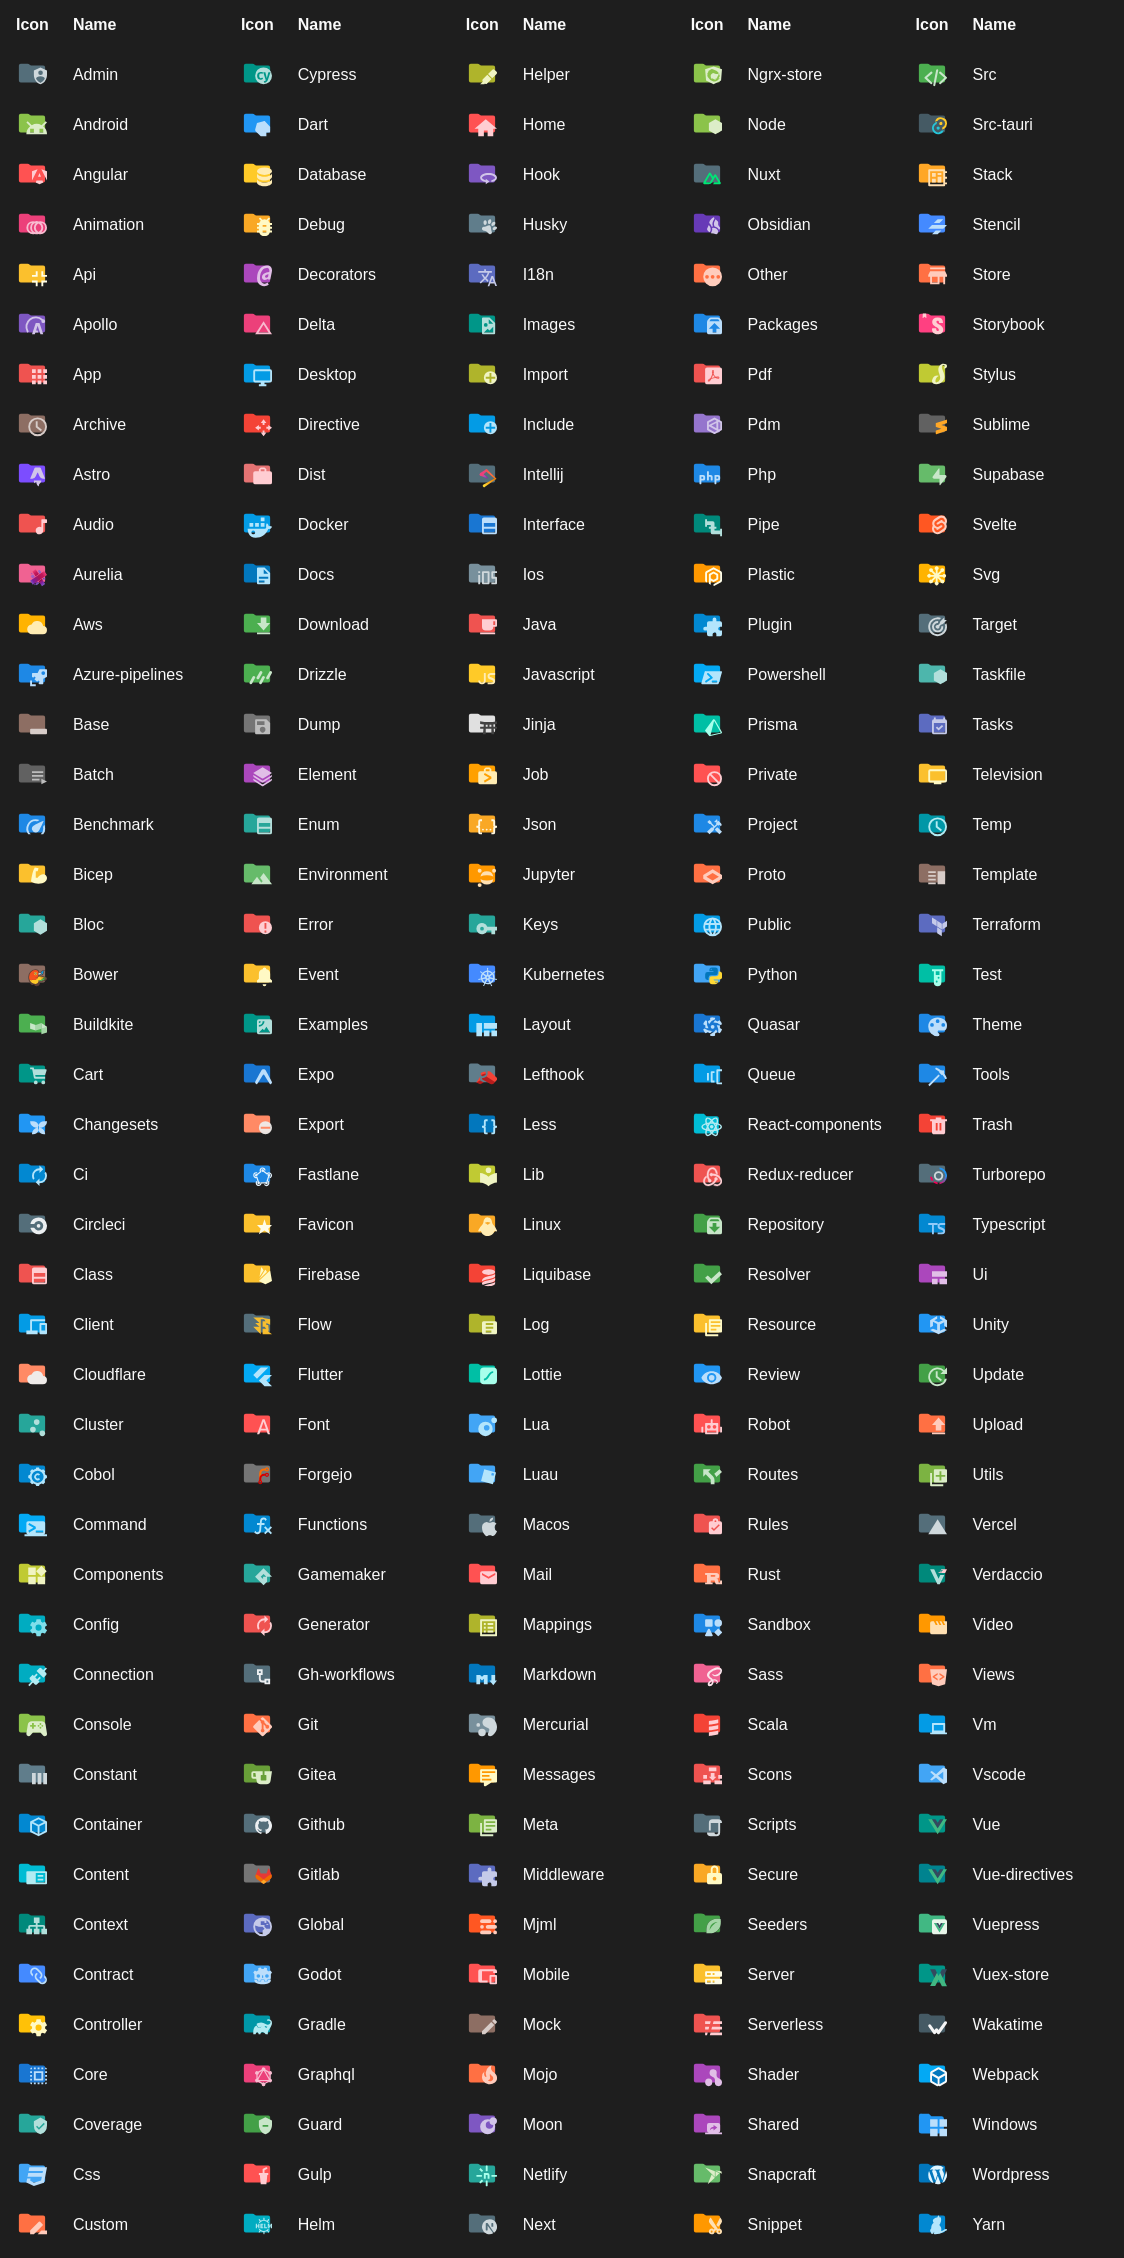
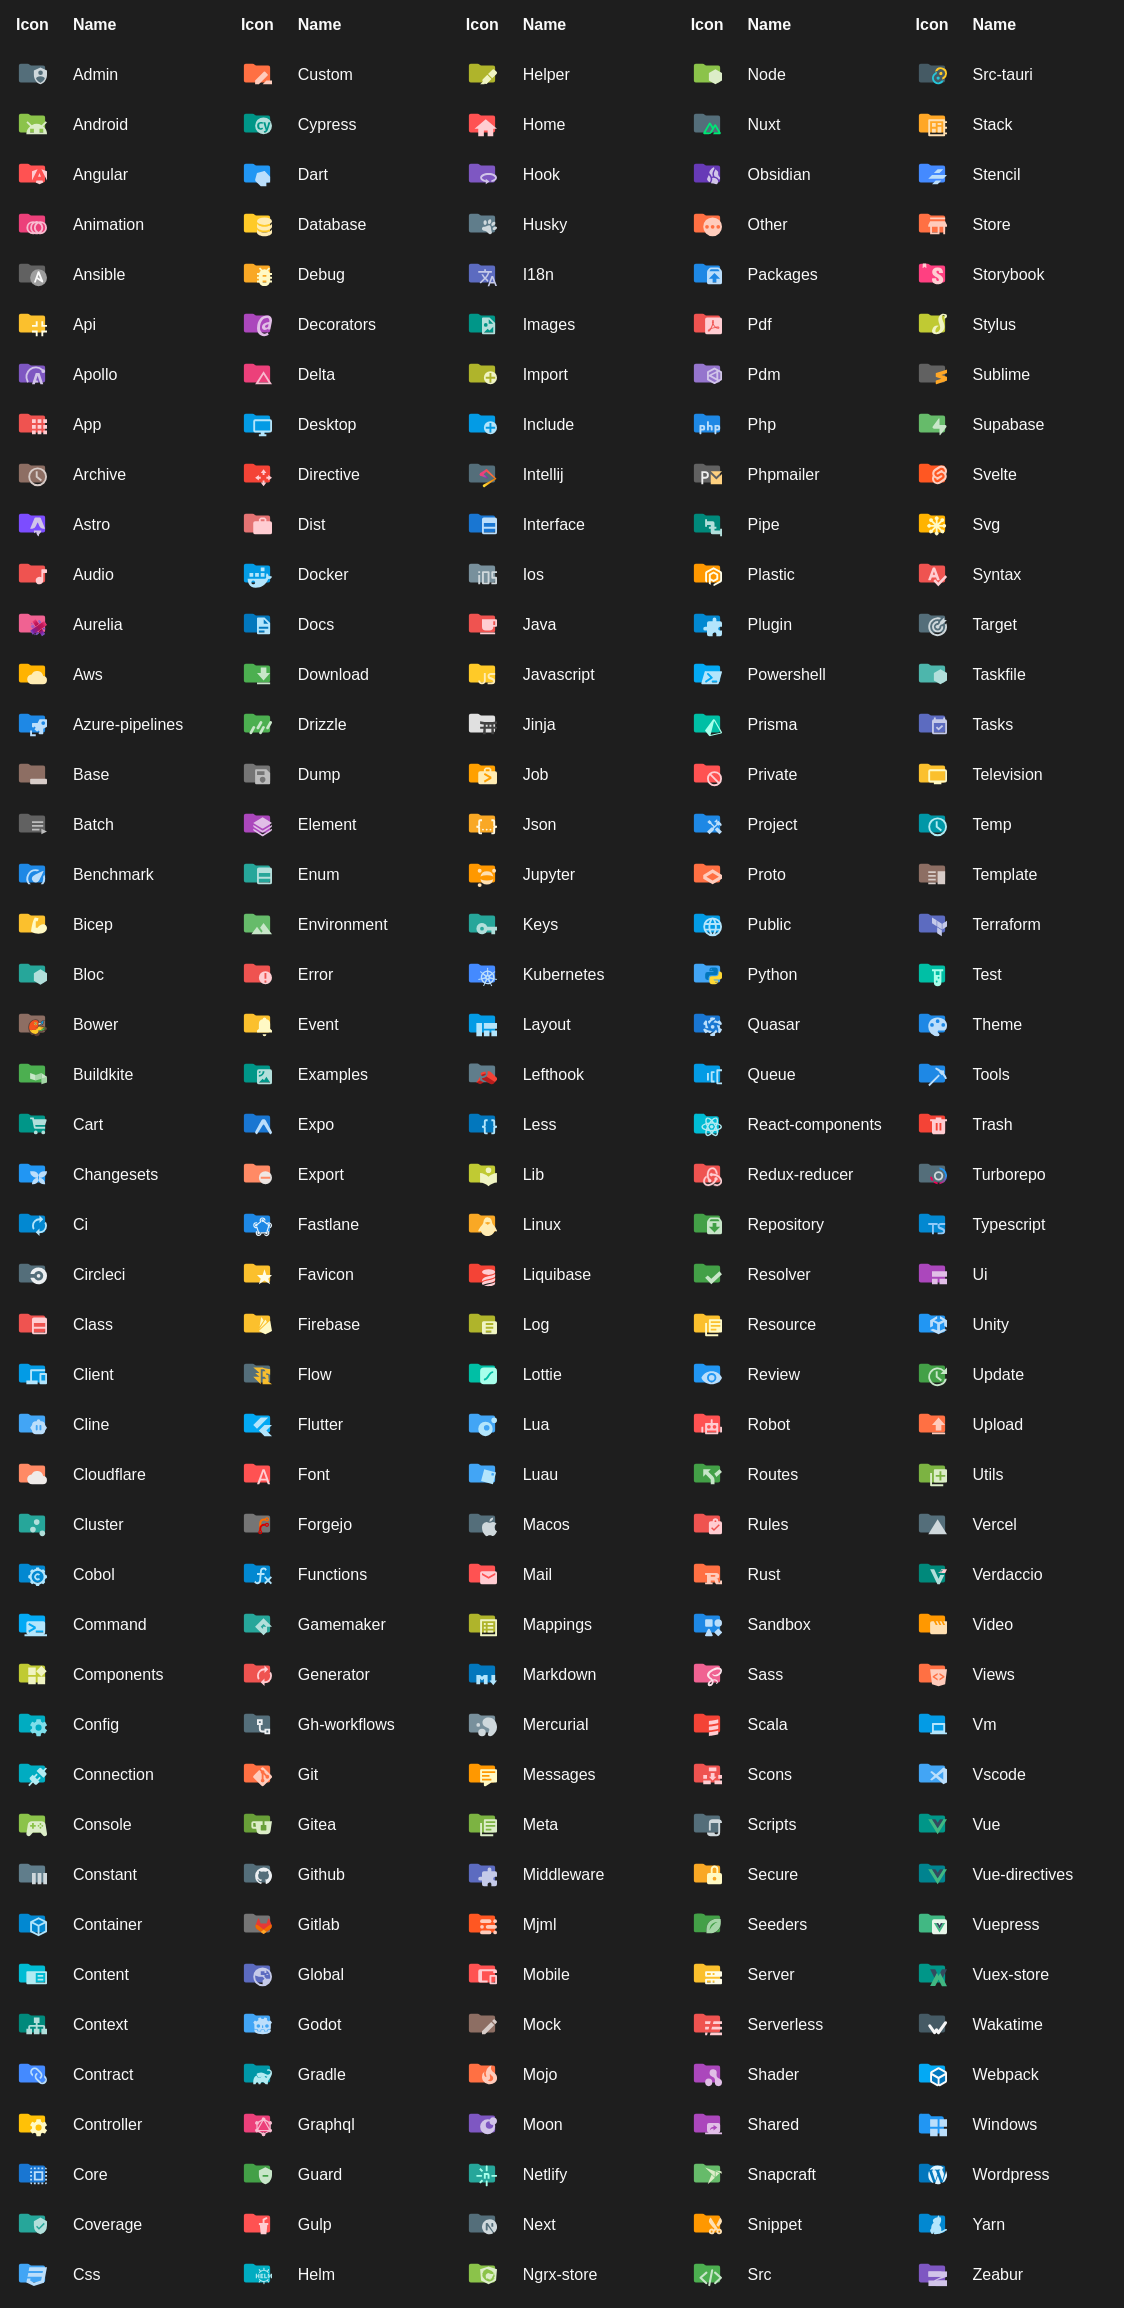
release: 🔖 v1.19.1

diff --git a/CHANGELOG.md b/CHANGELOG.md
@@ -3,10 +3,35 @@
  All notable changes to this project will be documented in this file. Dates are displayed in UTC.
 
  
+#### [v1.19.1](https://github.com/lucodear/lucodear-icons/compare/v1.19.0...v1.19.1) 
+
+> February 26, 2025 
+
+- feat: update prettier icon [`#2904`](https://github.com/lucodear/lucodear-icons/pull/2904)
+- feat: .taskrc.yml files [`#2903`](https://github.com/lucodear/lucodear-icons/pull/2903)
+- chore(deps): update haaleo/publish-vscode-extension action to v2 [`#2902`](https://github.com/lucodear/lucodear-icons/pull/2902)
+- chore(deps): update haaleo/publish-vscode-extension action to v1.7.0 [`#2901`](https://github.com/lucodear/lucodear-icons/pull/2901)
+- feat: update database file extensions [`#2899`](https://github.com/lucodear/lucodear-icons/pull/2899)
+- chore(deps): update dependency bun to v1.2.3 [`#2900`](https://github.com/lucodear/lucodear-icons/pull/2900)
+- feat: update JS and CSS icons to be more pixel perfect [`#2895`](https://github.com/lucodear/lucodear-icons/pull/2895)
+- feat: add folder icon for zeabur [`#2897`](https://github.com/lucodear/lucodear-icons/pull/2897)
+- feat: add uv icon [`#2898`](https://github.com/lucodear/lucodear-icons/pull/2898)
+- feat: add `.sub` extension to subtitle files [`#2894`](https://github.com/lucodear/lucodear-icons/pull/2894)
+- fix: wrong mappings in `fileIcons.ts` [`#2893`](https://github.com/lucodear/lucodear-icons/pull/2893)
+- fix: wrong mapping in folderIcons.ts [`#2892`](https://github.com/lucodear/lucodear-icons/pull/2892)
+- feat: enhance GraphQL Config files [`#2890`](https://github.com/lucodear/lucodear-icons/pull/2890)
+- chore(deps): update actions/create-github-app-token action to v1.11.5 [`#2888`](https://github.com/lucodear/lucodear-icons/pull/2888)
+- chore(deps): update dependency esbuild to ^0.25.0 [`#2880`](https://github.com/lucodear/lucodear-icons/pull/2880)
+- feat: add icon for `commitizen` [`#2874`](https://github.com/lucodear/lucodear-icons/pull/2874)
+- feat: update typescript icons [`#2878`](https://github.com/lucodear/lucodear-icons/pull/2878)
+- feat: add cline icons [`#2879`](https://github.com/lucodear/lucodear-icons/pull/2879)
+- chore: update .vscodeignore to refine included files for extension packaging [`43de9092`](https://github.com/lucodear/lucodear-icons/commit/43de9092)
+ 
 #### [v1.19.0](https://github.com/lucodear/lucodear-icons/compare/v1.18.0...v1.19.0) 
 
 > February 8, 2025 
 
+- release: 🔖 v1.19.0 [`1b1b2a5e`](https://github.com/lucodear/lucodear-icons/commit/1b1b2a5e)
 - chore: 🧹 update to bun v1.2.x [`15708101`](https://github.com/lucodear/lucodear-icons/commit/15708101)
 - chore: update VSCode settings to exclude bun.lockb file [`42fd9da9`](https://github.com/lucodear/lucodear-icons/commit/42fd9da9)
 - chore(deps): update actions/create-github-app-token action to v1.11.3 [`#2875`](https://github.com/lucodear/lucodear-icons/pull/2875)
